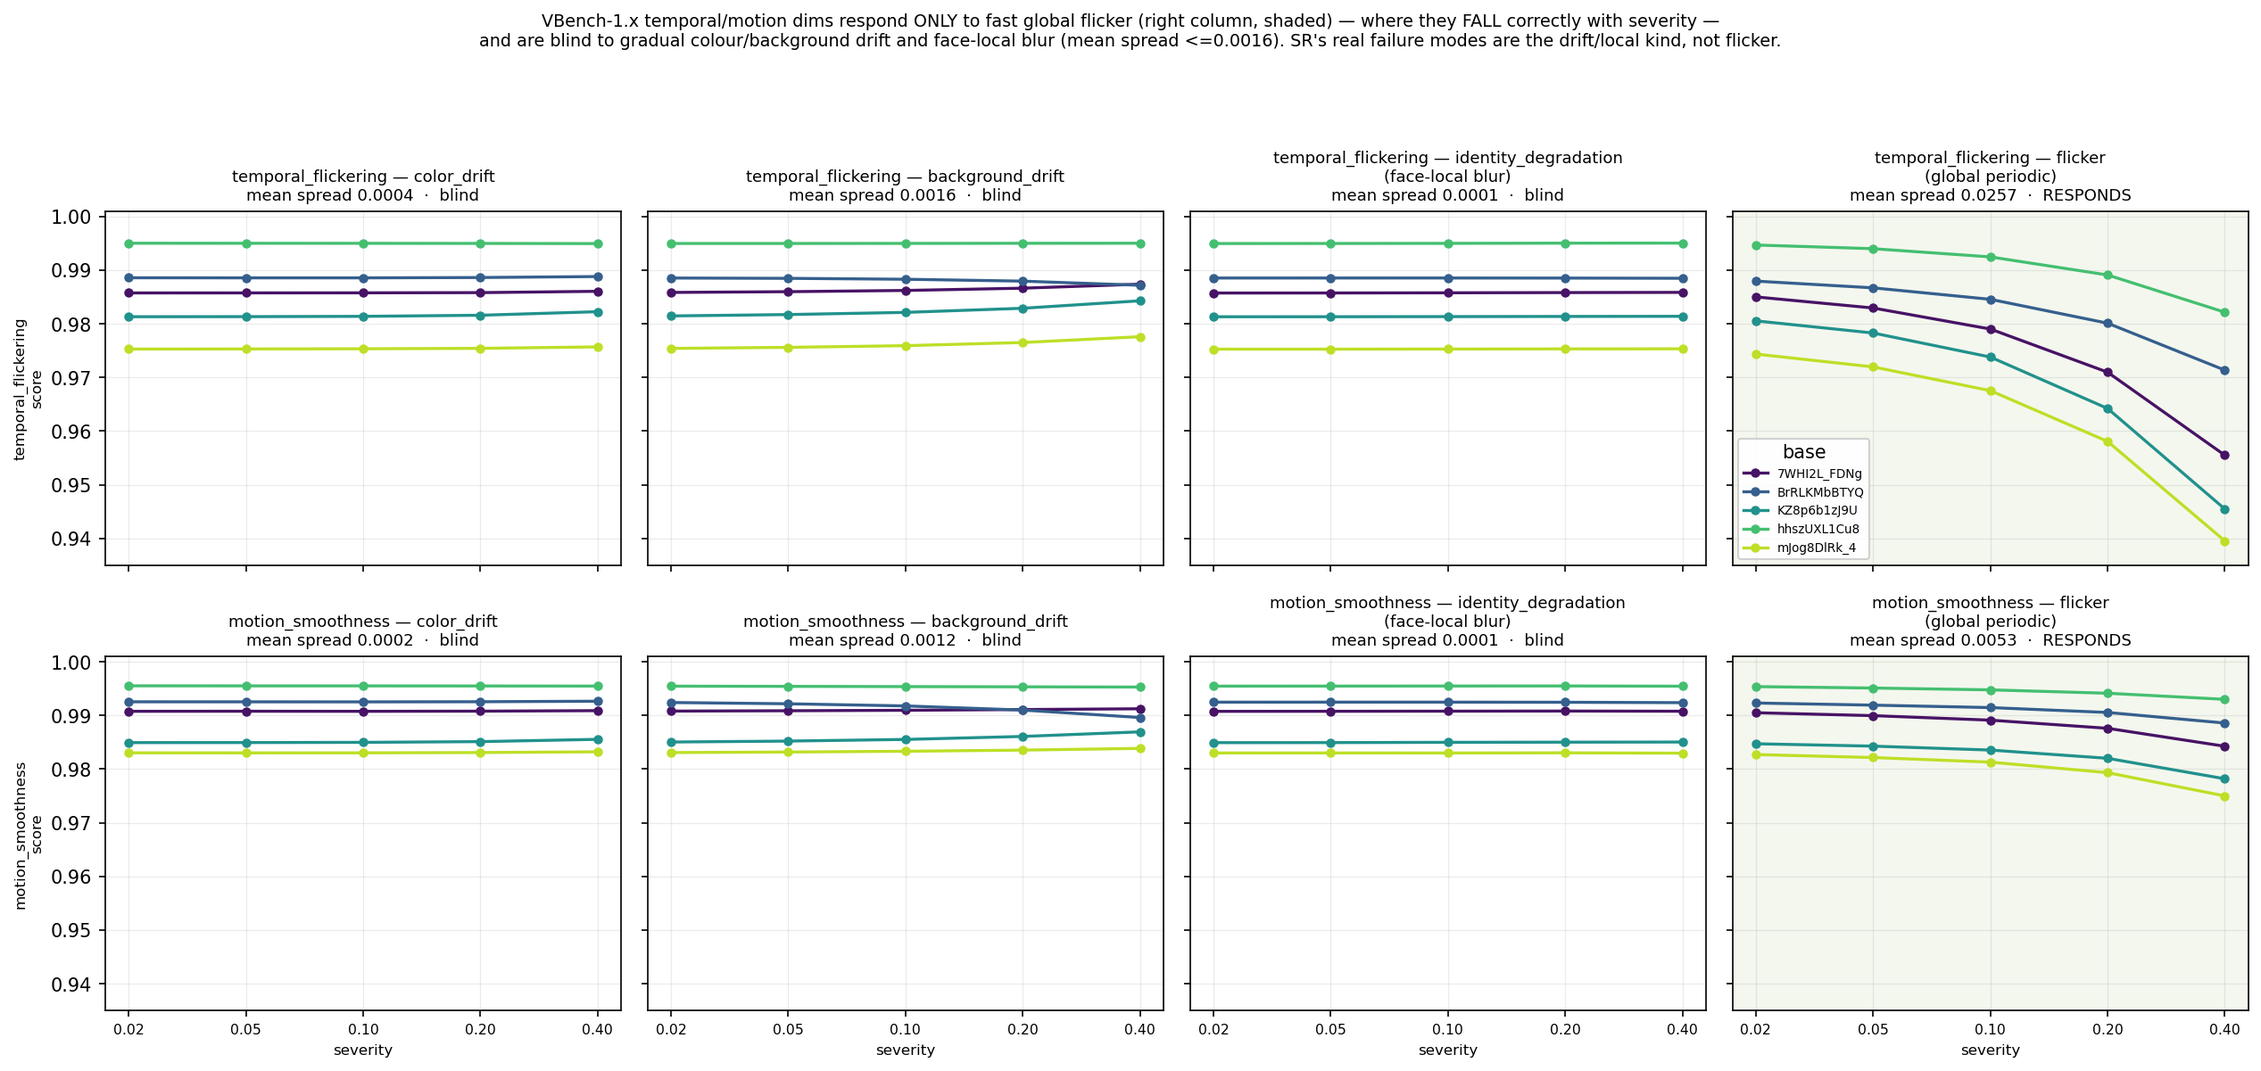
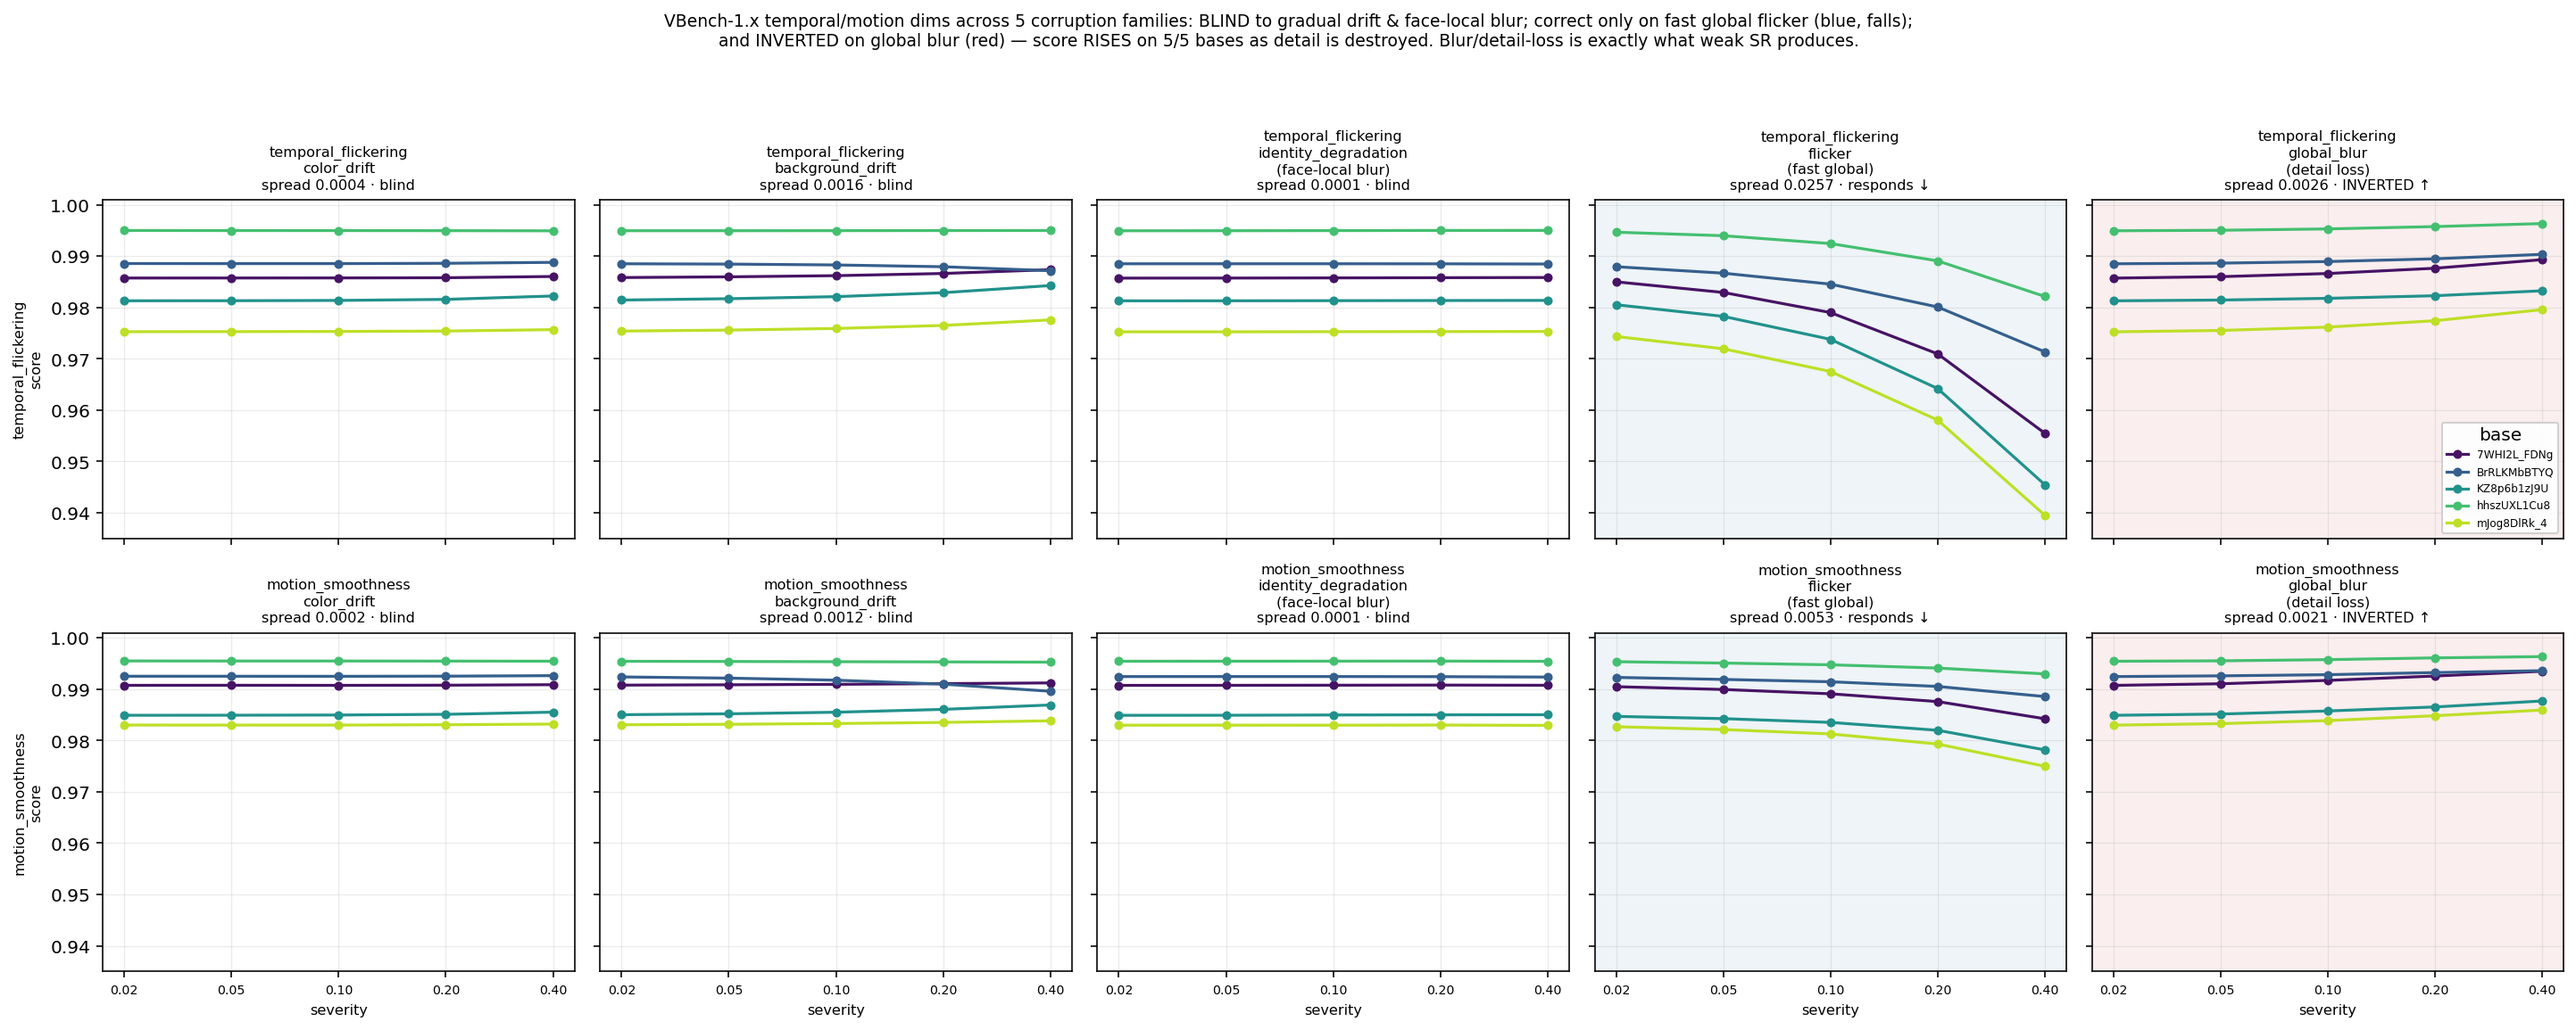
reports: VBench audit — global_blur inversion (dims reward detail loss)
Completes the five-family audit. New result: on whole-frame blur, both
temporal_flickering and motion_smoothness scores RISE on all five bases as
detail is destroyed (mean +0.0026 / +0.0021; 10/10 base x dim cells inverted) --
VBench would rank a detail-destroying SR model as more temporally consistent and
smoother. Global detail loss is exactly what weak SR produces, so this is the
temporal/motion analogue of the identity reductio.

Full picture across 5 families: blind to gradual drift + face-local blur;
correct only on fast global flicker (which SR does not produce); inverted on
global blur (which SR does). 2x5 figure; comparison note filled in.

Changed region(s): [[0.0, 0.1247, 0.9976, 0.8727], [0.0312, 0.9039, 0.9976, 0.9974], [0.2182, 0.0, 0.7794, 0.0623]]

diff --git a/docs/notes/2026-09-14-vbench-dimension-audit-findings.md b/docs/notes/2026-09-14-vbench-dimension-audit-findings.md
@@ -1,10 +1,10 @@
 # VBench dimension audit — findings (temporal_flickering, motion_smoothness)
 
-**Status:** complete — both dimensions across **four** corruption families
-(color_drift, background_drift, identity_degradation, flicker). Runner committed
-(`scripts/server_runners/run_vbench_reward_audit.sh`, family-parameterized);
-results on the server under `~/results/vbench_reward_audit/`; figure
-`reports/figures/vbench_reward_audit.png`.
+**Status:** complete — both dimensions across **five** corruption families
+(color_drift, background_drift, identity_degradation, flicker, global_blur).
+Runner committed (`scripts/server_runners/run_vbench_reward_audit.sh`,
+family-parameterized); results on the server under `~/results/vbench_reward_audit/`;
+figure `reports/figures/vbench_reward_audit.png`.
 
 ## What prompted this
 
@@ -12,113 +12,101 @@ The reduced-reference probe produced an identity-axis reductio: a self-anchored
 identity measure ranks the degraded LQ input as the *most* consistent video,
 because self-similarity rewards the absence of detail. This audit asks whether
 VBench's own temporal/motion consistency dimensions have the same disease —
-measured directly against the corruption battery over a graded severity ladder,
-not argued from construct validity.
+measured directly against the corruption battery over a graded severity ladder.
 
 ## A terminology correction worth recording
 
 `temporal_flickering` and `motion_smoothness` are **VBench 1.x** long-extension
-dimensions (`vbench2_beta_long/eval_long.py`, class `VBenchLong`). They are *not*
-VBench 2.0 dimensions. Label both by version in any write-up.
+dimensions (`vbench2_beta_long/eval_long.py`). They are *not* VBench 2.0
+dimensions. Label both by version in any write-up.
 
 ## Method
 
 - Dimensions: `temporal_flickering`, `motion_smoothness`, via `eval_long.py
-  --mode long_custom_input --dev_flag`, on GPU1 (`nice`d).
-- Families (5 bases × severities 0.02, 0.05, 0.10, 0.20, 0.40 — a 20× range):
+  --mode long_custom_input --dev_flag`, on GPU1.
+- Families (5 bases × severities 0.02–0.40, a 20× range):
   - **color_drift**, **background_drift** — gradual drift.
   - **identity_degradation** — face-local Gaussian blur (Haar-detected faces
-    only; a passthrough where no face is present).
-  - **flicker** — global sinusoidal brightness modulation, period 15 frames
-    (≈0.5 s), amplitude ∝ severity.
-- eval_long splits each ~2.8-min video into ~84 two-second clips and scores per
-  clip; clip paths carry `base_sevX`, so per-clip scores aggregate cleanly to a
-  per-(base, severity) mean (1885 clips per family).
+    only; passthrough where no face is present).
+  - **flicker** — global sinusoidal brightness, period 15 frames (≈0.5 s).
+  - **global_blur** — whole-frame Gaussian blur, sigma = severity × 10.
+- eval_long splits each ~2.8-min video into ~84 clips; per-clip scores aggregate
+  to a per-(base, severity) mean (1885 clips per family).
 
-## Result — blind to everything except fast global flicker
+## Result — a four-way behaviour, and it is damning in the right way
 
-Mean spread of the dimension score across the 20× severity ladder (higher score
-= what VBench treats as better; a corruption-sensitive dimension should *fall*):
+Mean score-spread across the ladder, and end-to-end Δ direction (a
+corruption-sensitive dimension should *fall*):
 
-| dimension | color_drift | background_drift | identity_degradation | flicker |
-|---|---:|---:|---:|---:|
-| temporal_flickering | 0.0004 | 0.0016 | 0.0001 | **0.0257** |
-| motion_smoothness | 0.0002 | 0.0012 | 0.0001 | **0.0053** |
+| dimension | color_drift | background_drift | identity_degradation | flicker | global_blur |
+|---|---:|---:|---:|---:|---:|
+| temporal_flickering | 0.0004 · blind | 0.0016 · blind | 0.0001 · blind | **0.0257 · falls ✓** | **0.0026 · RISES ✗** |
+| motion_smoothness | 0.0002 · blind | 0.0012 · blind | 0.0001 · blind | **0.0053 · falls ✓** | **0.0021 · RISES ✗** |
 
-Seven of the eight cells are flat to ≤0.0016 on a scale where scores sit around
-0.94–0.996 — **blind**. The exception is **flicker**, and there the response is
-correct: the score **falls monotonically** as flicker worsens.
+Four regimes, all measured:
+1. **Blind** to gradual colour/background drift and face-local blur (flat to
+   ≤0.0016).
+2. **Correct** on fast global flicker — the score falls monotonically
+   (temporal_flickering strongly, spread 0.0257; motion_smoothness weakly).
+3. **Inverted** on global blur — see below.
 
-**temporal_flickering / flicker** (aggregate 0.97391) — the one strong response:
+**global_blur — the reward inversion (the key result).** As whole-frame blur
+destroys detail, *both* dimensions rate the video as **more** consistent, on
+**all five bases**:
 
-| base | 0.02 | 0.05 | 0.10 | 0.20 | 0.40 | Δ |
-|---|---:|---:|---:|---:|---:|---:|
-| 7WHI2L_FDNg | 0.9850 | 0.9829 | 0.9790 | 0.9710 | 0.9555 | −0.0295 |
-| BrRLKMbBTYQ | 0.9879 | 0.9867 | 0.9846 | 0.9801 | 0.9714 | −0.0166 |
-| KZ8p6b1zJ9U | 0.9805 | 0.9783 | 0.9738 | 0.9642 | 0.9455 | −0.0351 |
-| hhszUXL1Cu8 | 0.9947 | 0.9940 | 0.9925 | 0.9891 | 0.9822 | −0.0125 |
-| mJog8DlRk_4 | 0.9743 | 0.9720 | 0.9675 | 0.9581 | 0.9395 | −0.0348 |
+| base | 0.02 | 0.05 | 0.10 | 0.20 | 0.40 | Δ (TF) | Δ (MS) |
+|---|---:|---:|---:|---:|---:|---:|---:|
+| 7WHI2L_FDNg | 0.9857 | 0.9860 | 0.9866 | 0.9876 | 0.9893 | +0.0036 | +0.0028 |
+| BrRLKMbBTYQ | 0.9885 | 0.9886 | 0.9890 | 0.9895 | 0.9904 | +0.0018 | +0.0011 |
+| KZ8p6b1zJ9U | 0.9813 | 0.9815 | 0.9818 | 0.9823 | 0.9833 | +0.0020 | +0.0028 |
+| hhszUXL1Cu8 | 0.9950 | 0.9951 | 0.9953 | 0.9958 | 0.9964 | +0.0014 | +0.0009 |
+| mJog8DlRk_4 | 0.9753 | 0.9755 | 0.9762 | 0.9774 | 0.9796 | +0.0043 | +0.0029 |
 
-All five bases fall; `motion_smoothness/flicker` also falls on all five but ~5×
-weaker (spread 0.0053). Full per-family curves in the figure.
+(temporal_flickering column shown; motion_smoothness rises identically.)
+Direction is **unanimous — 10/10 base×dimension cells rise.** The magnitude is
+modest (~0.002–0.004) but the *sign is wrong*: destroying detail improves the
+score.
 
-## Reading — a precise, mechanism-based boundary (and why it is the stronger claim)
+## Reading — the exact failure boundary, and why it indicts VBench for SR
 
-The dimensions are **not uniformly broken.** They respond to exactly what they
-were designed for — **fast, global** brightness flicker — and are blind to
-everything else tested: gradual colour drift, gradual background drift, and
-face-local blur. The boundary is **high-frequency global (seen) vs
-low-frequency / local (missed)**.
-
-This is a stronger position than a blanket "VBench is blind":
-
-1. **It is fair.** We tested a corruption VBench *can* see (flicker) and reported
-   that it sees it. The critique cannot be dismissed as a strawman.
-2. **The missed corruptions are the ones that matter for super-resolution.** SR
-   models do not produce fast global flicker; they produce gradual drift and
-   detail/identity loss. So these dimensions catch the corruption that is
-   *irrelevant* to SR and miss the ones that are *central*. That is the crux.
-3. **temporal_flickering is aptly named and narrowly scoped** — an adjacent-frame
-   MAE statistic sees per-frame brightness oscillation and nothing slower.
-
-**The comparison that matters.** On the same `color_drift` family where both
-dimensions are flat (≤0.0004), LR-VCC's anchored-colour sub-metric (D′) responds
-on 4/5 bases (calibration record). Same corruption, same videos: the benchmark's
-sub-metric moves; VBench's dimensions do not — except where the corruption is
-fast global flicker, which SR does not produce.
+- **Seen:** high-frequency global change (flicker). **Missed:** low-frequency /
+  local change (drift, face-local blur). **Rewarded:** global detail loss (blur).
+- This is the temporal/motion analogue of the identity reductio: a blur has no
+  flicker and interpolates perfectly, so self-referential temporal/smoothness
+  metrics rate it as *more* consistent.
+- **Global blur / detail loss is exactly the dominant failure of a weak SR
+  model.** So VBench's temporal and motion dimensions would rank a
+  detail-destroying SR method as *more* temporally consistent and smoother than a
+  detail-preserving one — the precise inversion the benchmark must avoid, now
+  measured on the battery rather than argued.
+- On the same `color_drift` family where both dimensions are flat, LR-VCC's
+  anchored-colour sub-metric (D′) responds on 4/5 bases.
 
 ## motion_smoothness needed two env fixes (recorded for reproducibility)
 
-`motion_smoothness` failed twice at model-init before producing numbers, both in
-the `vbench` conda env:
+`motion_smoothness` failed twice at model-init before producing numbers:
 1. **AMT checkpoint missing** — VBench's `init_submodules` hard-codes a
-   `huggingface.co` wget URL, ignoring `HF_ENDPOINT`; the blocked host gave
-   `wget … exit 4`. Fixed by fetching `amt-s.pth` (12 MB) from the mirror into
-   `~/.cache/vbench/amt_model/`.
-2. **Missing python deps** — `omegaconf` (imported by `vbench/motion_smoothness.py`)
-   and `einops` (AMT network). pip-installed (pure-python; numpy untouched);
-   init path verified before the successful re-run.
+   `huggingface.co` wget URL, ignoring `HF_ENDPOINT`; fixed by fetching
+   `amt-s.pth` (12 MB) from the mirror into `~/.cache/vbench/amt_model/`.
+2. **Missing deps** — `omegaconf`, `einops` pip-installed in the `vbench` env.
 
 ## Honest limitations
 
-- **identity_degradation tests "blind to *local* blur", not "rewards *global*
-  blur".** The blur is confined to detected faces, so a global frame metric
-  barely sees it (spread 0.0001) — which is expected, not a strong inversion
-  result. Testing whether the score *rises* as detail is globally destroyed needs
-  a **global-blur family** (next step).
-- **Scores sit near the ceiling** (~0.98–0.996) on the flat families; flicker
-  shows the statistic *can* move (down to 0.94), which is mild evidence against
-  pure saturation on that family at least.
+- **Modest magnitudes.** The inversion is unanimous in direction but small
+  (~0.002–0.004) — the dimensions sit near a ceiling (~0.98–0.996). The *sign*
+  is the finding; the magnitude is bounded by saturation, which is itself part of
+  why these metrics discriminate poorly.
+- **identity_degradation is face-local**, so its flat result is "blind to local
+  blur", the weaker cousin of the global_blur inversion — both are now on record.
 - **Single run**; temporal_flickering (MAE) is deterministic, motion_smoothness
-  uses a fixed AMT checkpoint with no sampling.
+  uses a fixed AMT checkpoint.
 
 ## What this establishes / next
 
-- Establishes, with measurements across four families: VBench-1.x
-  temporal/motion consistency dimensions respond **only to fast global flicker**
-  and are blind to gradual drift and local degradation — the corruptions that
-  dominate long-video SR. temporal_flickering catches its namesake; nothing else.
-- Next: (1) a **global-blur family** to test the blur-*inversion* claim directly;
-  (2) fold this (the "what VBench misses" half) together with the reduced-
-  reference correspondence work (the "what LR-VCC adds" half) into the
-  VBench-vs-LR-VCC comparison as measured evidence.
+- Establishes, across five families: VBench-1.x temporal/motion consistency
+  dimensions are blind to the gradual/local corruptions that dominate long-video
+  SR, correct only on fast global flicker (which SR does not produce), and
+  **actively reward global detail loss** (which SR *does* produce). Measured, not
+  argued.
+- Feeds the VBench-vs-LR-VCC comparison (`2026-09-18-vbench-vs-lrvcc-comparison.md`)
+  as the "what VBench misses / inverts" half.

diff --git a/docs/notes/2026-09-18-vbench-vs-lrvcc-comparison.md b/docs/notes/2026-09-18-vbench-vs-lrvcc-comparison.md
@@ -33,8 +33,7 @@ high-frequency-global (seen) vs low-frequency/local (missed), and the missed
 side **is where SR failures live**: SR models produce gradual drift and
 detail/identity loss, not flicker. On the same `color_drift` family where both
 VBench dimensions are flat, LR-VCC's anchored-colour sub-metric (D′) responds on
-4/5 bases. *(A global-blur family is running to test the reward-inversion case
-directly — whether the score rises as detail is destroyed; result forthcoming.)*
+4/5 bases. **And they actively reward detail loss.** On a global-blur family, both dimensions' scores *rise* on all five bases as blur destroys detail (temporal_flickering +0.0026, motion_smoothness +0.0021 mean Δ; 10/10 base×dim cells inverted) — VBench would rank a detail-destroying SR model as *more* temporally consistent and smoother, the temporal/motion analogue of the identity reductio.
 
 ## Half 2 — what LR-VCC adds (measured)
 
@@ -95,7 +94,6 @@ blind to gradual drift.
 
 ## Follow-ups (open)
 
-- Fill in the global-blur inversion result (Half 1) when the audit completes.
 - Pull Ring Forcing's exact A-D-R table numbers as targets.
 - Decide whether the reduced-reference framing is formally adopted (the standing
   scope decision) — it is the precondition for the A-D-R-for-SR experiment.
